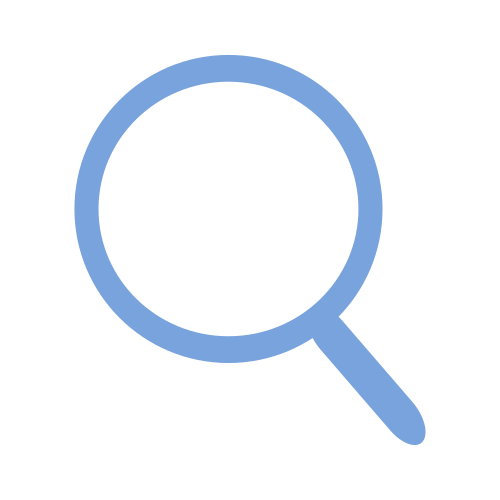
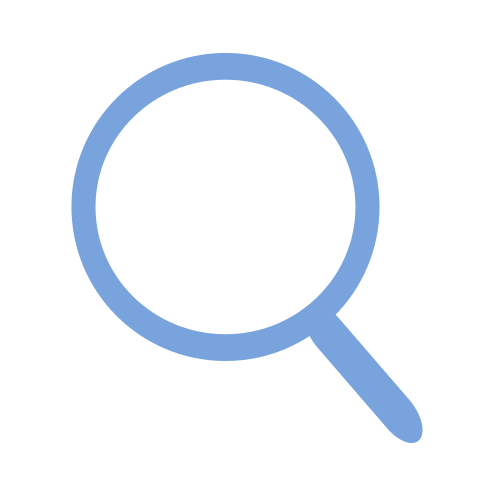
add

diff --git a/css/style.css b/css/style.css
@@ -1581,7 +1581,7 @@ div.col_none{
 }
 .menu_search .ico_search{
 	background: url(../images/search_icon.png) center no-repeat;
-	background-size: 87% auto;
+	background-size: 83% auto;
 }
 .menu_search.active .ico_search{
 	background-image: url(../images/search_icon_w.png);
@@ -1600,7 +1600,7 @@ div.col_none{
 	width: 90%;
 	height: auto;
 	border-radius: 1.3em;
-	box-shadow: 0px 0.3em 1em 0 rgba(0, 0, 0, 0.12);
+	box-shadow: 0px 0.3em 1em 0 rgba(0, 0, 0, 0.3);
 	display: none;
 }
 .search_area.select{
@@ -1629,7 +1629,7 @@ div.col_none{
 .popup_title .tit_popup_wrap .tit_popup .tit_txt{
 	display: table-cell;
 	vertical-align: middle;
-	color: #323232;
+	color: #272b2f;
 	font-size: 1.5em;
 	font-weight: 700;
 }
@@ -1653,6 +1653,8 @@ div.col_none{
 .search_area .search_form .dep_sel{
 	width: 100%;
 	height: 2.7em;
+	font-size: 1.15em;
+	color: #272b2f;
 }
 .search_area .search_form .search_input{
 	display: table-cell;
@@ -1662,6 +1664,8 @@ div.col_none{
 .search_area .search_form .search_input input.search{
 	width: 95%;
 	height: 2.7em;
+	font-size: 1.15em;
+	color: #272b2f;
     padding-left: .3em;
     margin-left: 5%;
 }
@@ -1694,10 +1698,10 @@ div.col_none{
 	display: table-cell;
 	vertical-align: middle;
 	width: 50%;
-	color: #2e65af;
+	color: #79a3dc;
 }
 .btn_popup_wrap .btn_popup .cancel_txt{
-	color: #323232;
+	color: #272b2f;
 }
 .menu_wrap{
 	display: block;

diff --git a/css/common.css b/css/common.css
@@ -84,7 +84,9 @@ input[type=checkbox] {margin:0; padding:0;}
 input::placeholder {font-family:'notokr-light', sans-serif; font-size:1em; color:#b3b3b3; line-height:30px;}
 textarea{border:1px solid #ccc; line-height:1.5; font-size:12px; color:#666; resize:none; border-radius:0; font-family:'notokr-light', sans-serif;}
 textarea:focus{border:1px solid #666;}
-select{-webkit-appearance:none;}
+select{
+	-webkit-appearance:none;
+}
 /* ie 9 */
 select::-ms-expand {display:none;}
 .blind{display:block; overflow:hidden; position:absolute; top:-1000em; left:0;}
